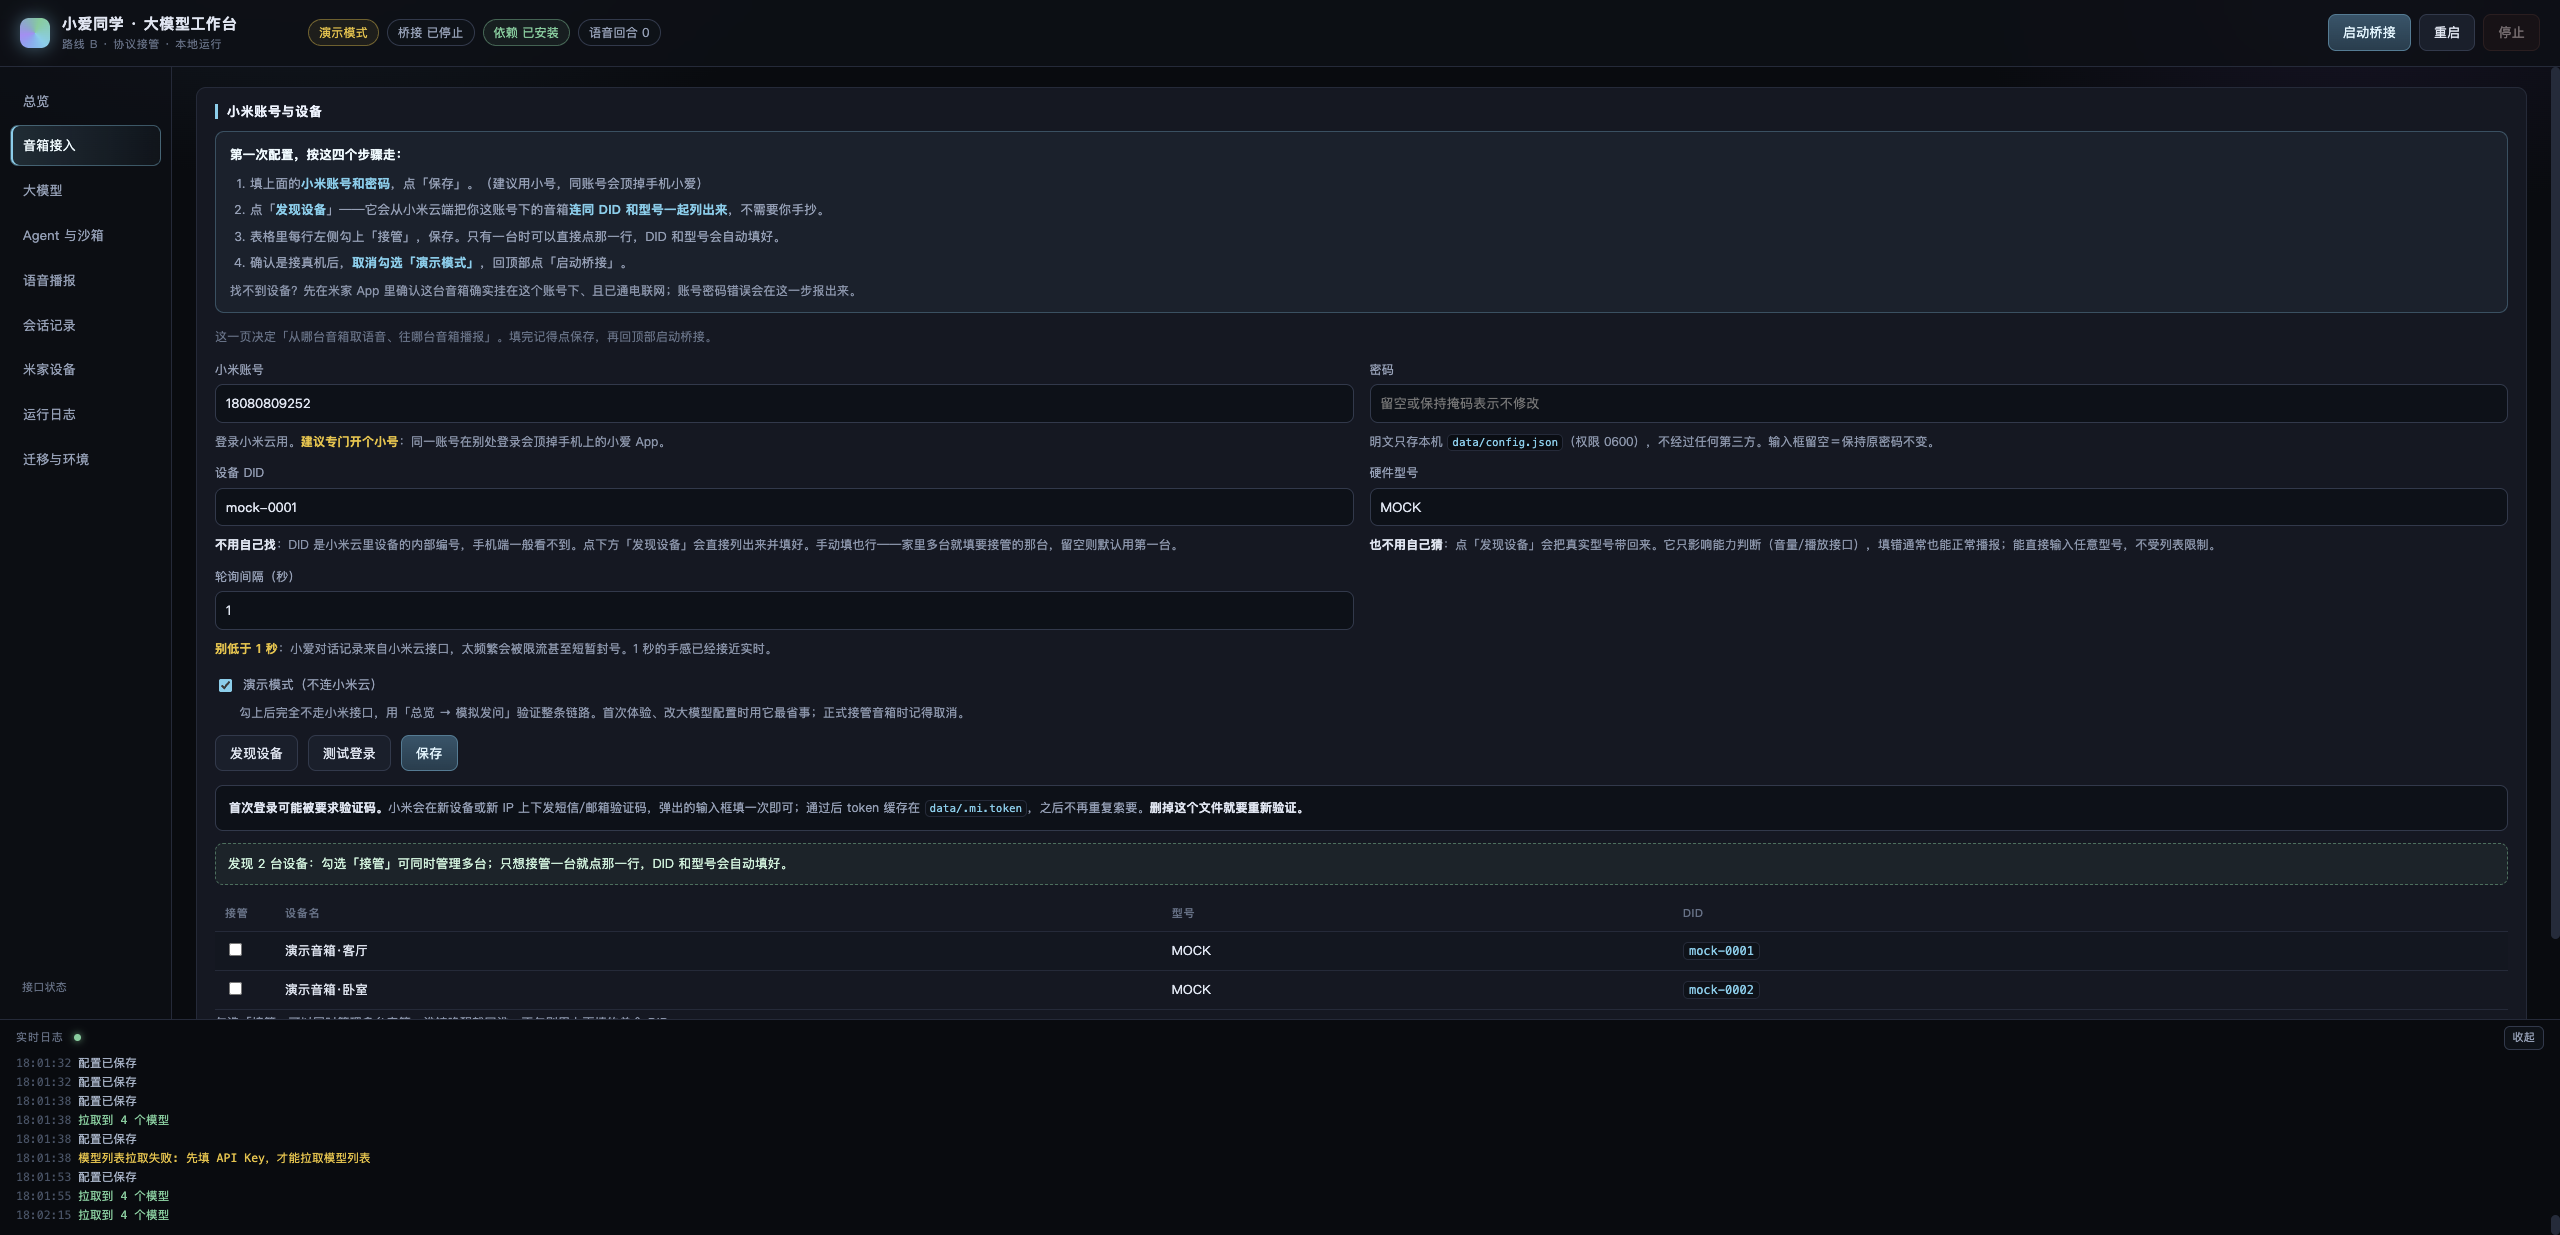
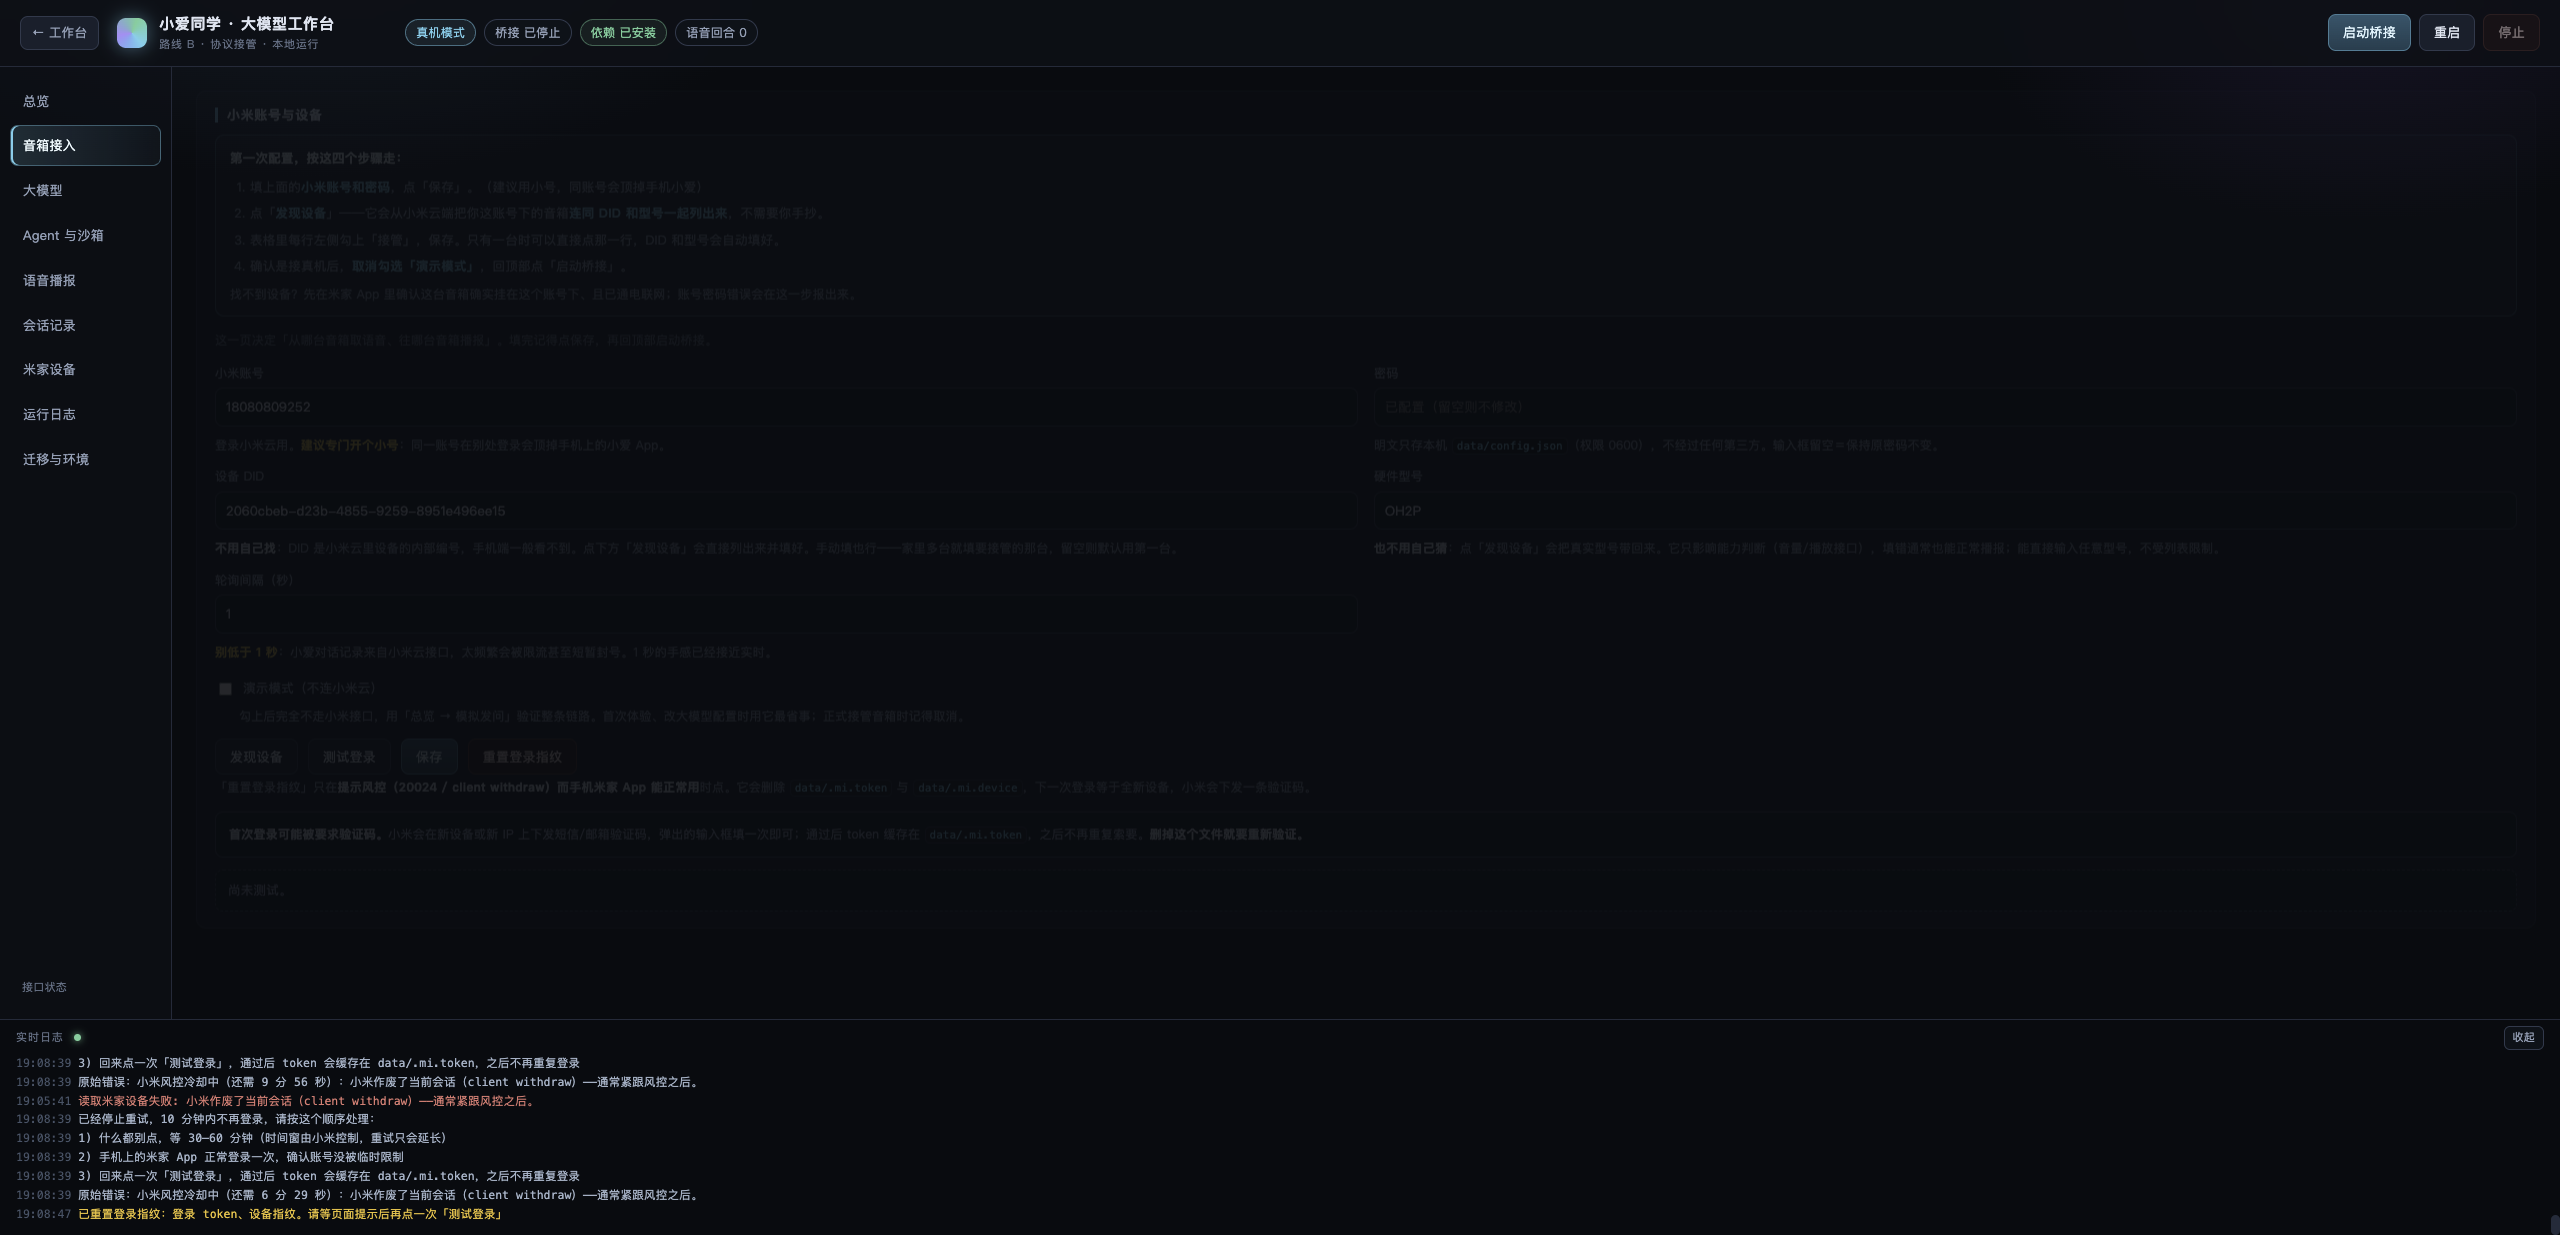
feat(mi): 新增「重置登录指纹」，手机可用但本机被 20024 时的正路
用户反馈手机米家 App 正常，只有这台机器登录被拒——说明限制的是客户端指纹，
不是账号。之前只让用户干等，没有可执行的动作。

- 新增 POST /api/mi/reset-fingerprint：删除 data/.mi.token 与
  data/.mi.device，并清空冷却；幂等
- 界面加红色「重置登录指纹」按钮 + 说明（只在风控时用）
- 风控文案改成判断式：手机能用 → 账号没问题 → 走重置，别去查账号
- 新增 1 个测试断言文案包含可执行下一步，总计 163

diff --git a/app/web/index.html b/app/web/index.html
@@ -185,7 +185,11 @@
             <button class="btn" id="btn-discover" title="读取账号下的音箱列表，不修改任何配置">发现设备</button>
             <button class="btn" id="btn-diag-mi" title="完整走一遍登录流程，确认账号密码和验证码是否通过">测试登录</button>
             <button class="btn primary" id="btn-save-mi">保存</button>
+            <button class="btn danger" id="btn-reset-fp"
+              title="清掉登录 token 和设备指纹，让小米把本机当成一台全新设备。手机 App 正常、只有这里报 20024 时用它">重置登录指纹</button>
           </div>
+          <p class="note">「重置登录指纹」只在<b>提示风控（20024 / client withdraw）而手机米家 App 能正常用</b>时点。它会删除
+            <code>data/.mi.token</code> 与 <code>data/.mi.device</code>，下一次登录等于全新设备，小米会下发一条验证码。</p>
 
           <div class="note-block">
             <b>首次登录可能被要求验证码。</b>小米会在新设备或新 IP 上下发短信/邮箱验证码，弹出的输入框填一次即可；通过后 token 缓存在

diff --git a/app/web/app.js b/app/web/app.js
@@ -432,6 +432,18 @@
     refresh();
   });
 
+  $("#btn-reset-fp").addEventListener("click", async () => {
+    if (!confirm("将清除登录 token 与设备指纹，下次登录等于一台全新设备。确定？")) return;
+    const box = $("#mi-result");
+    box.className = "result";
+    box.textContent = "正在重置…";
+    const r = await api("/api/mi/reset-fingerprint", {});
+    box.className = "result " + (r.ok ? "ok" : "err");
+    box.textContent = r.ok ? (r.note || "已清除") : (r.error || "失败");
+    toast(r.ok ? "已重置，请点一次「测试登录」" : (r.error || "失败"), !r.ok);
+    refresh();
+  });
+
   $("#btn-otp-cancel").addEventListener("click", async () => {
     await api("/api/mi/otp/cancel", {});
     $("#otp-box").hidden = true;

diff --git a/app/mi.py b/app/mi.py
@@ -147,6 +147,28 @@ def stable_device_id() -> str:
     return val
 
 
+def reset_fingerprint() -> Dict[str, Any]:
+    """清掉 token 与设备指纹，让下一次登录看起来来自一台全新设备。
+
+    手机 App 正常、只有这台机器被 20024 时，这是最有效的一步——
+    小米限制的是「这个客户端」，不是账号。
+    """
+    removed = []
+    for path, label in (
+        (store.resolve("data/.mi.token"), "登录 token"),
+        (DEVICE_FILE, "设备指纹"),
+    ):
+        try:
+            if os.path.exists(path):
+                os.remove(path)
+                removed.append(label)
+        except OSError as e:
+            raise MiError("删除 %s 失败：%s" % (label, e))
+    _COOLDOWN.update({"until": 0.0, "reason": ""})
+    _save_cooldown()
+    return {"removed": removed}
+
+
 def _load_cooldown() -> None:
     try:
         with open(COOLDOWN_FILE, "r", encoding="utf-8") as f:
@@ -203,10 +225,12 @@ def friendly_mi_error(exc: Exception) -> "MiError":
             set_cooldown(secs, hint)
             return MiError(
                 hint + "\n"
-                "已经停止重试，%d 分钟内不再登录，请按这个顺序处理：\n"
-                "1) 什么都别点，等 30–60 分钟（时间窗由小米控制，重试只会延长）\n"
-                "2) 手机上的米家 App 正常登录一次，确认账号没被临时限制\n"
-                "3) 回来点一次「测试登录」，通过后 token 会缓存在 data/.mi.token，之后不再重复登录\n\n"
+                "已经停止重试，%d 分钟内不再登录。\n"
+                "如果手机上的米家 App 能正常用，说明账号本身没问题，是这台设备的登录指纹被限制了：\n"
+                "1) 先等冷却走完；仍不通就点「重置登录指纹」，让小米把它当成一台全新设备\n"
+                "2) 重置后只点一次「测试登录」——小米会发一条验证码，填完即通\n"
+                "3) 通过后 token 缓存在 data/.mi.token，之后不再重复登录\n"
+                "4) 若重置后依旧 20024，说明限制是按 IP / 时间窗生效的，隔几小时再试\n\n"
                 "原始错误：" % (secs // 60) + text[:200]
             )
     return MiError(text)

diff --git a/app/server.py b/app/server.py
@@ -23,6 +23,7 @@ from typing import Any, Dict, Optional, Tuple
 
 from . import bridge, export, health, llm, memory, miot, scenes, store
 from .console import safe_print
+from . import mi as mi_mod
 from .mi import OTP, MiError, miservice_available
 
 ROOT = store.ROOT
@@ -228,6 +229,15 @@ class Handler(BaseHTTPRequestHandler):
                 return self._diag_llm()
             if path == "/api/diag/mi":
                 return self._diag_mi()
+            if path == "/api/mi/reset-fingerprint":
+                try:
+                    info = mi_mod.reset_fingerprint()
+                    LOG.warn("已重置登录指纹：%s。请等页面提示后再点一次「测试登录」"
+                             % ("、".join(info["removed"]) or "无缓存"))
+                    return self._json({"ok": True, **info,
+                                       "note": "已清除。现在点一次「测试登录」，小米会下发验证码。"})
+                except Exception as e:  # noqa: BLE001
+                    return self._json({"ok": False, "error": str(e)}, 500)
             if path == "/api/mi/otp/cancel":
                 OTP.cancel()
                 LOG.info("用户取消了验证码输入")

diff --git a/tests/test_mi_login.py b/tests/test_mi_login.py
@@ -81,7 +81,8 @@ class RiskControlTest(unittest.TestCase):
             "Failed to send OTP SMS: {'reason': '用户行为被限制', 'code': 20024}"))
         text = str(err)
         self.assertIn("风控", text)
-        self.assertIn("等 30–60 分钟", text)
+        self.assertIn("重置登录指纹", text)      # 给出可执行的下一步
+        self.assertIn("账号本身没问题", text)     # 手机能用时别让用户去查账号
         self.assertIn("原始错误", text)
 
     def test_cooldown_blocks_next_attempt(self):

diff --git a/README.md b/README.md
@@ -423,12 +423,20 @@ client withdraw  code -127
 
 冷却期内所有米家/音箱接口直接拒绝，**一次都不打小米接口**（实测第二次请求 1 毫秒返回）。
 
-### 恢复顺序
+### 手机 App 正常，只有这台机器报 20024？
 
-1. **停手等 30–60 分钟**——重试只会把窗口越拖越长（`wt` 会一直涨）
-2. 手机上的米家 App 正常登录一次，确认账号没被临时限制
-3. 回来**只点一次**「测试登录」，验证码用悬浮弹窗填
-4. 成功后 token 存在 `data/.mi.token`，之后不再重复登录
+说明**账号没事，是这个客户端的登录指纹被限制了**。用「重置登录指纹」：
+
+它会删除 `data/.mi.token` 与 `data/.mi.device`，并清空冷却。下一次登录对小米来说是一台**全新设备**，通常会给一条验证码而不是直接拒绝。
+
+顺序：
+
+1. 点「重置登录指纹」
+2. **只点一次**「测试登录」
+3. 验证码用悬浮弹窗填（回车即提交）
+4. 通过后 token 落盘，之后不再重复登录
+
+如果重置后依旧 20024，那是按 IP / 时间窗生效的，隔几小时再试——重试只会把 `wt` 越拖越长。
 
 ### 验证码是悬浮弹窗
 
